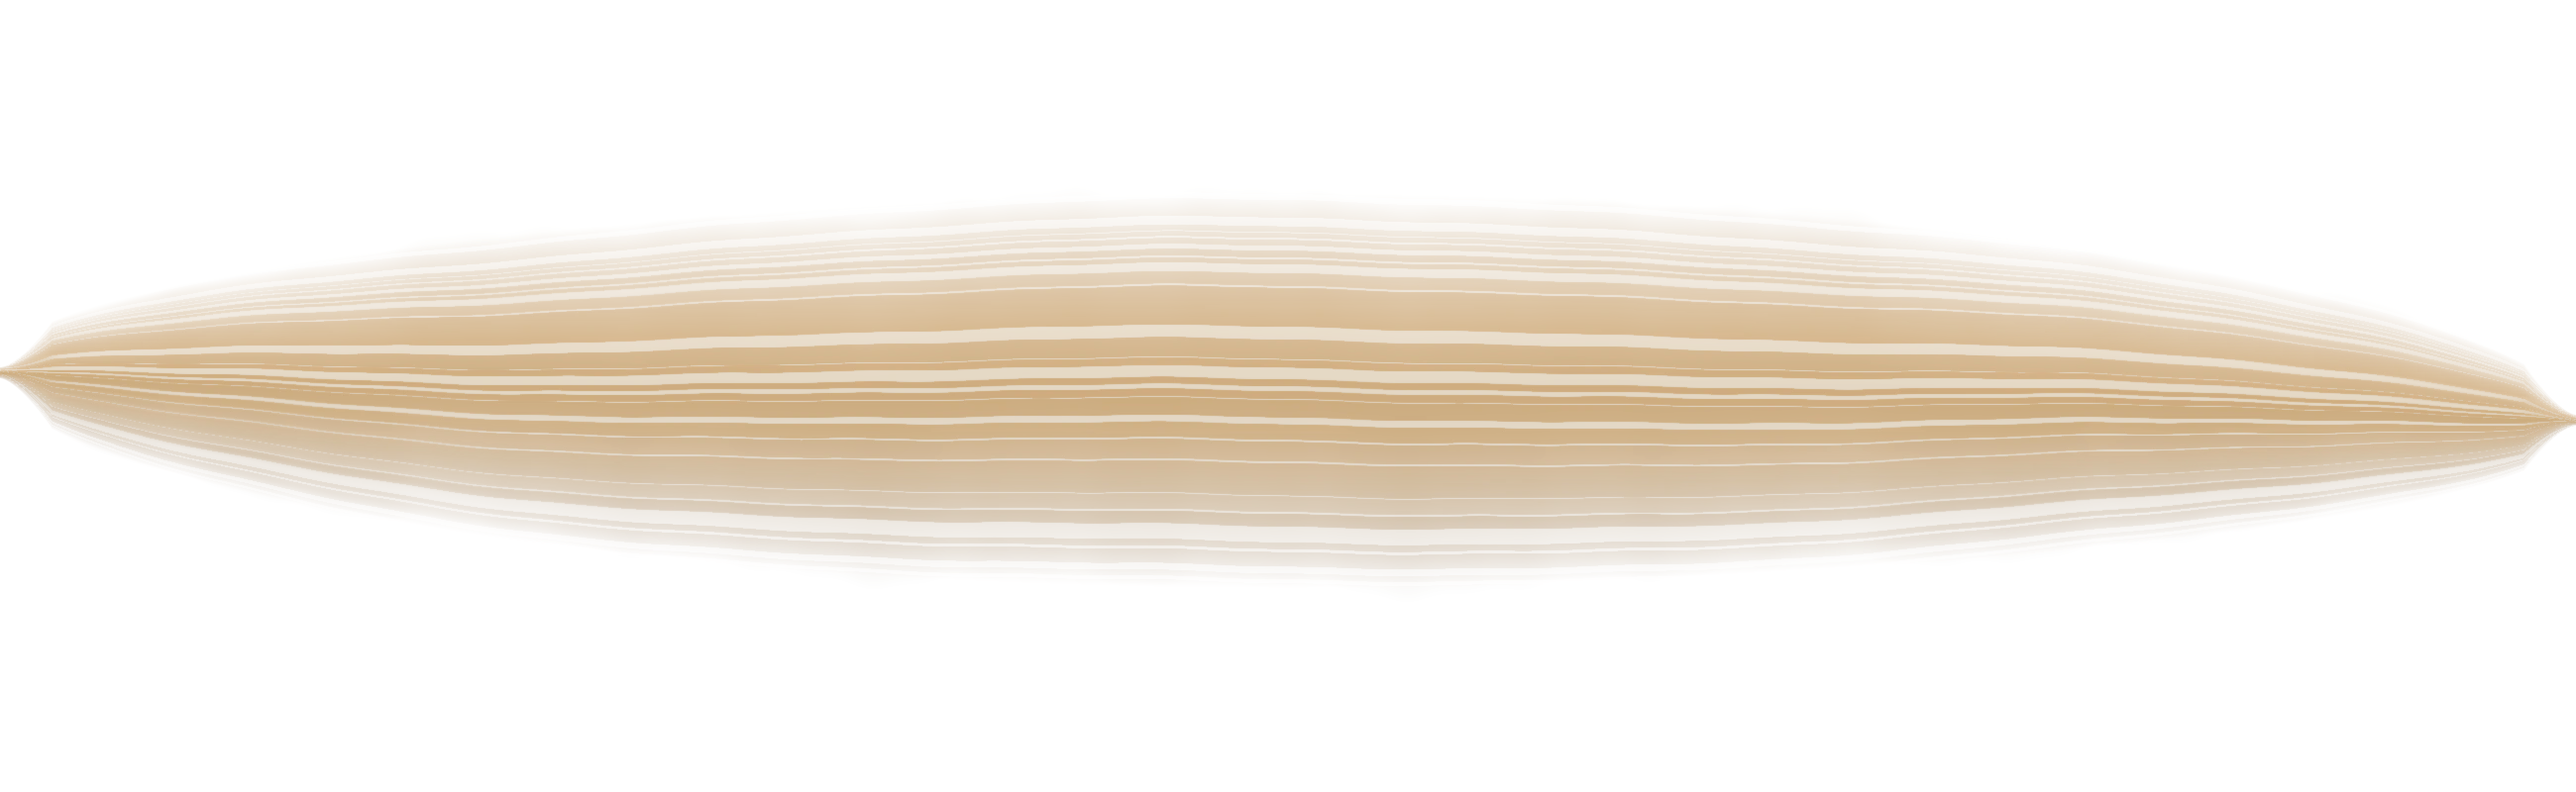
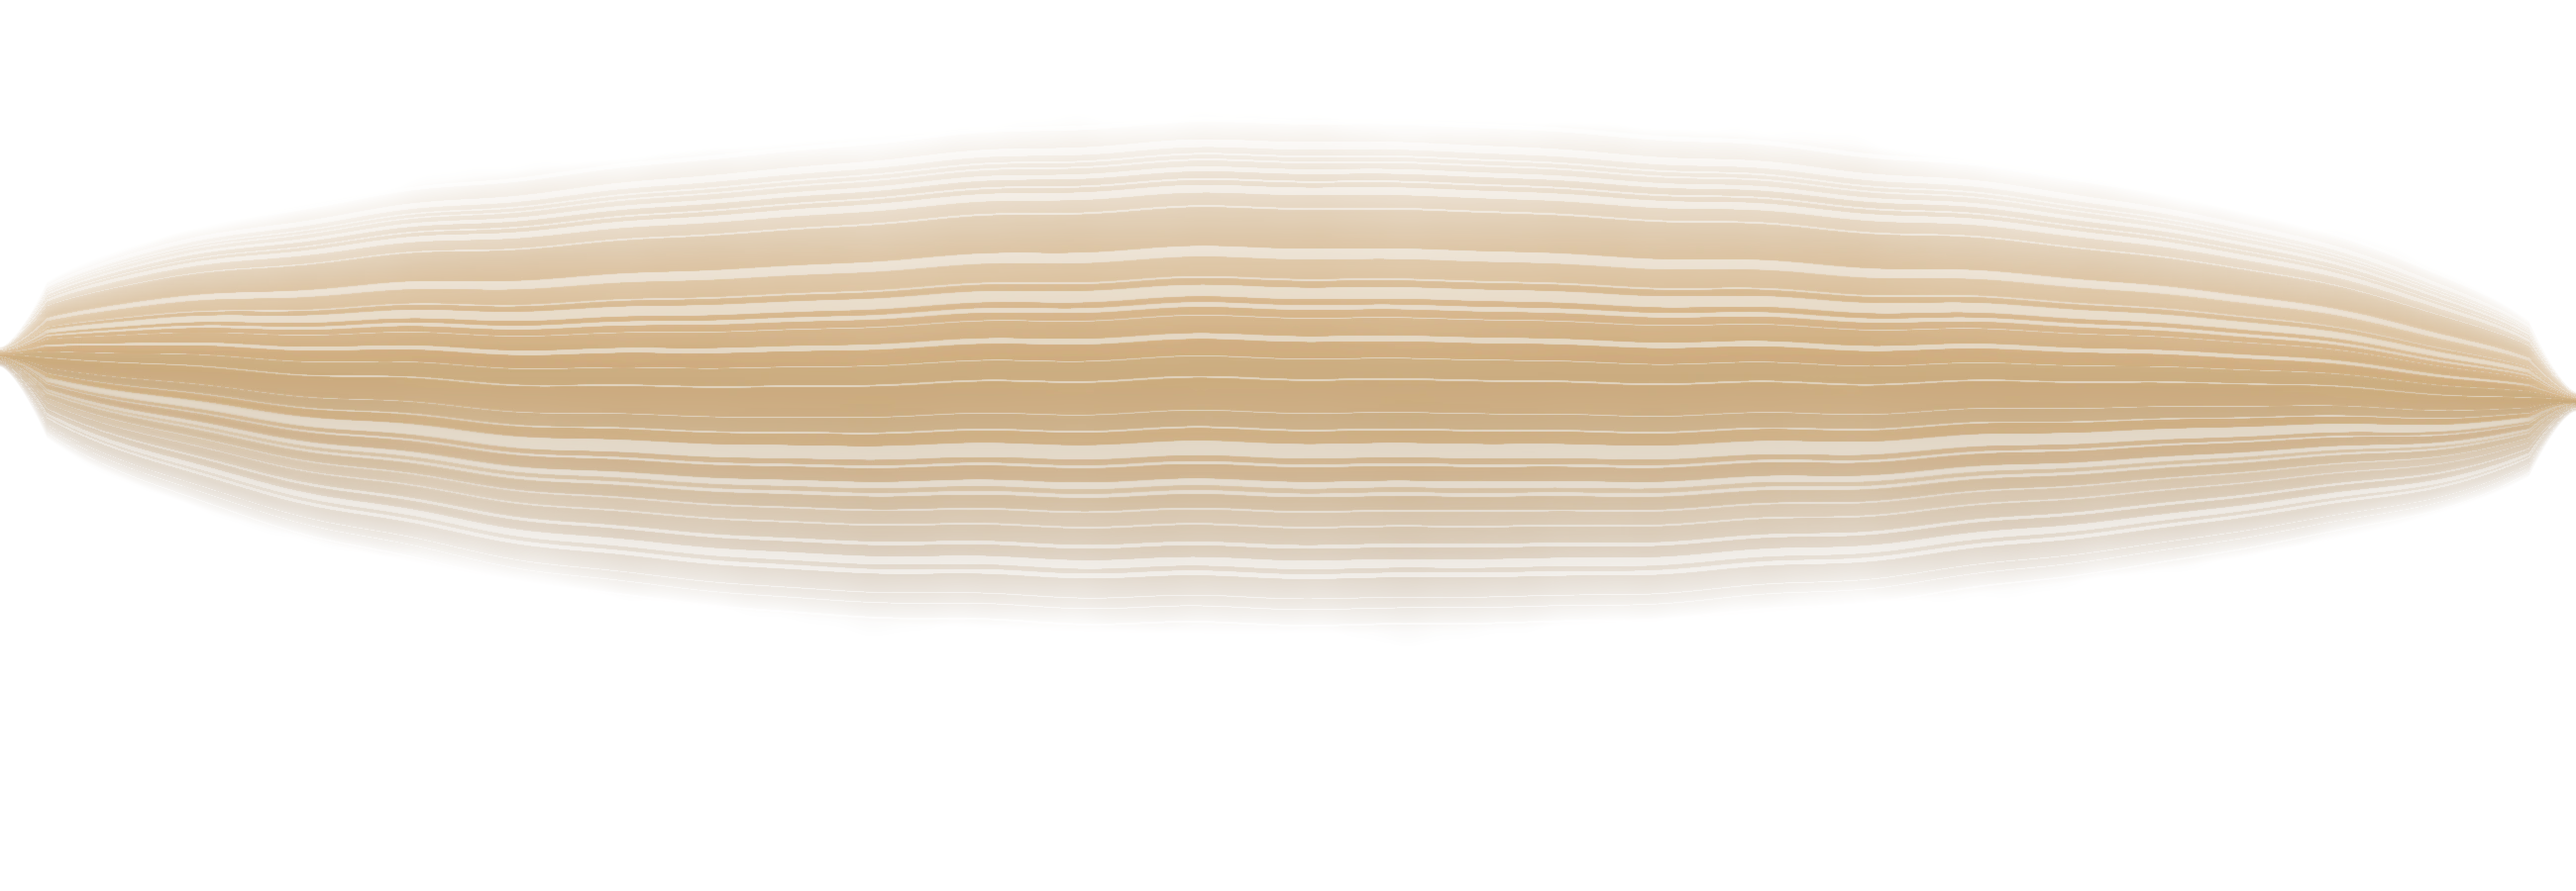
fix Hero.tsx animation bugs; improve stroke WebPs with wider bodies

diff --git a/components/Hero.tsx b/components/Hero.tsx
@@ -30,8 +30,8 @@ export default function Hero() {
 
         {/* Ornamental mark above headline */}
         <motion.div
-          initial={{ opacity: 0, scaleX: 0 }}
-          animate={{ opacity: 1, scaleX: 1 }}
+          initial={{ opacity: 0, y: -6 }}
+          animate={{ opacity: 1, y: 0 }}
           transition={{ duration: 0.9, delay: 0.15, ease: 'easeOut' }}
           className="flex items-center gap-3 mb-6"
         >
@@ -55,9 +55,10 @@ export default function Hero() {
         {/* Thin decorative rule between headline and tagline */}
         <motion.div
           initial={{ scaleX: 0, opacity: 0 }}
-          animate={{ scaleX: 1, opacity: 1 }}
+          animate={{ scaleX: 1, opacity: 0.5 }}
           transition={{ duration: 0.8, delay: 0.55, ease: 'easeOut' }}
-          className="mt-7 h-px w-16 bg-chlo-tan opacity-50"
+          className="mt-7 h-px w-16 bg-chlo-tan"
+          style={{ originX: 0 }}
         />
 
         <motion.p

diff --git a/components/PhotorealBrushStrokes.tsx b/components/PhotorealBrushStrokes.tsx
@@ -45,7 +45,7 @@ export default function PhotorealBrushStrokes() {
               src={s.src}
               alt=""
               width={2600}
-              height={800}
+              height={900}
               priority={i === 0}
               className="h-auto w-full select-none"
             />
